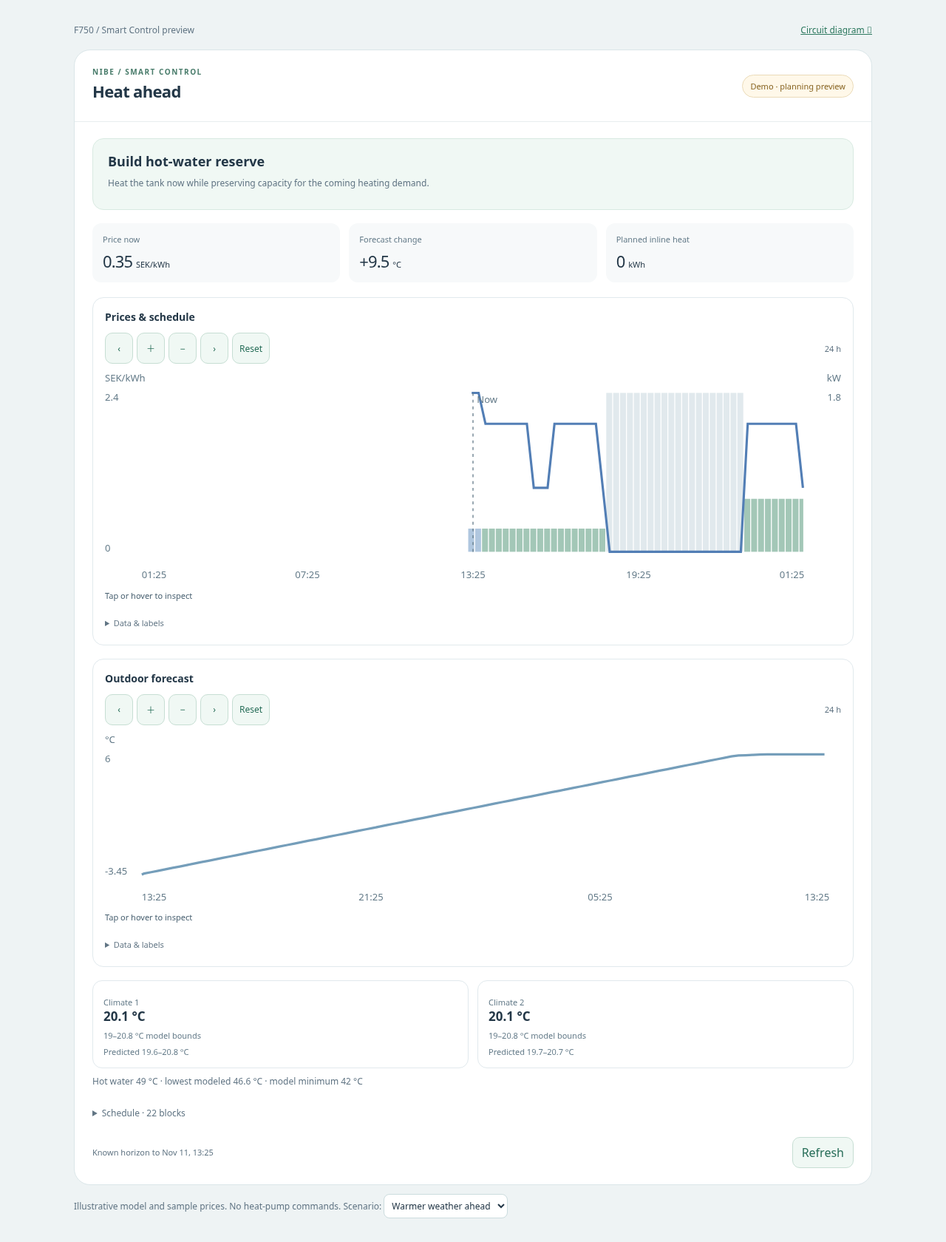
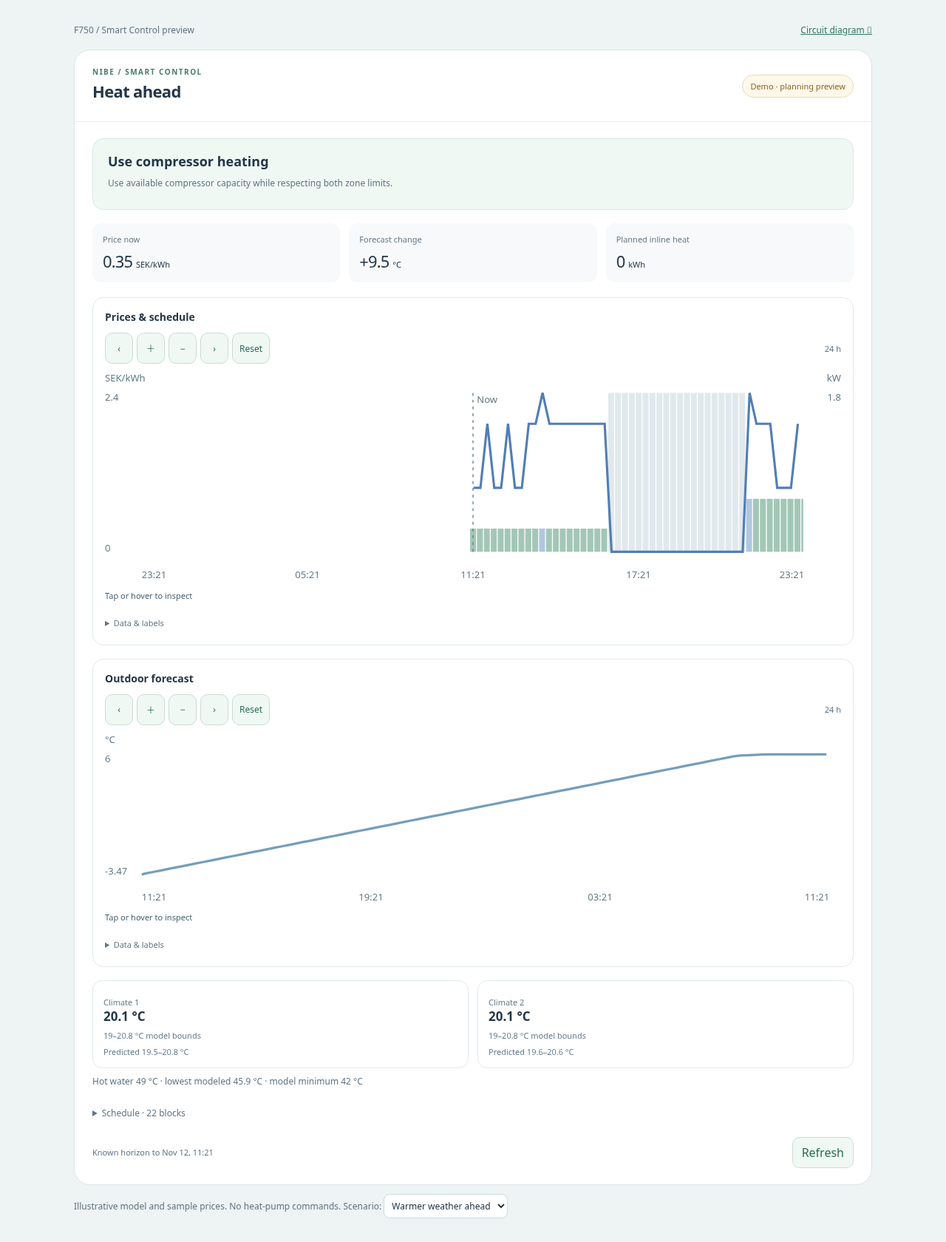
Colour price bars by simulated activity duration rather than whole quarters

Changed region(s): [[0.5, 0.3095, 0.8438, 0.4643], [0.125, 0.1238, 0.3438, 0.1548], [0.375, 0.1238, 0.4062, 0.1548]]

diff --git a/custom_components/nibe_f750/frontend/nibe-f750-card.js b/custom_components/nibe_f750/frontend/nibe-f750-card.js
@@ -373,6 +373,21 @@ window.customCards.push({type:'nibe-f750-card',name:'NIBE F750 Dashboard',descri
 const finite=v=>typeof v==='number'?Number.isFinite(v):typeof v==='string'&&v.trim()!==''&&Number.isFinite(Number(v));
 const stamp=v=>typeof v==='string'&&/(Z|[+-]\d{2}:\d{2})$/.test(v)?Date.parse(v):NaN;
 const escapeHTML=v=>String(v??'').replace(/[&<>"']/g,c=>({'&':'&amp;','<':'&lt;','>':'&gt;','"':'&quot;',"'":'&#39;'}[c]));
+// Forecasts carry actual simulated activity, rather than Normal permission.
+function chartActivity(rows,start,end) {
+  if(!Array.isArray(rows))return null; // Legacy quarter-hour forecast.
+  const time=v=>Number.isFinite(v)?v<1e12?v*1000:v:NaN;
+  const result=[];
+  for(const row of rows){
+    const a=Math.max(start,time(row.start)),b=Math.min(end,time(row.end));
+    if(!Number.isFinite(a)||!Number.isFinite(b)||b<=a||!['dhw','heat','off'].includes(row.action))continue;
+    result.push({start:a,end:b,action:row.action,inline_kw:Number.isFinite(row.inline_kw)&&row.inline_kw>0?row.inline_kw:0});
+  }
+  result.sort((a,b)=>a.start-b.start);
+  const valid=[];
+  for(const r of result){const end=valid.at(-1)?.end??start;if(r.start<end-1)continue;r.start=Math.max(r.start,end);if(r.end>r.start)valid.push(r);}
+  return valid;
+}
 function normalizePrices(rows,{unit,currency='SEK',vat_percent=0,extra_per_kwh=0}={}) {
   if(!Array.isArray(rows)) throw Error('Timestamped Nord Pool prices are missing.');
   const u=String(unit||'').replace(/\s/g,'').toLowerCase(),curr=currency.toLowerCase();
@@ -640,7 +655,12 @@ if(globalThis.customElements&&!customElements.get('nibe-f750-smart-card')) {
         if(c.predicted!==false&&Number.isFinite(row.predicted_kw))values.push(`Predicted ${round(row.predicted_kw,2)} kW`);
         if(c.actual!==false&&row.start<Date.now()&&Number.isFinite(row.actual_kw))values.push(`Observed estimate ${round(row.actual_kw,2)} kW`);
         if(c.inline!==false&&Number.isFinite(row.inline_kw))values.push(`Inline estimate ${round(row.inline_kw,2)} kW`);
-        if(c.schedule!==false&&row.action)values.push(row.end>Date.now()&&!this.planIsActive(Object.values(this._hass?.states||{}).find(s=>s.attributes?.forecast)?.attributes.forecast)?'Schedule inactive':row.action==='off'?'Coast':row.action==='dhw'?'DHW':'Heating');
+        if(c.schedule!==false&&row.action){
+          const activity=chartActivity(row.activity,row.start,row.end);
+          if(row.end>Date.now()&&!this.planIsActive(Object.values(this._hass?.states||{}).find(s=>s.attributes?.forecast)?.attributes.forecast))values.push('Schedule inactive');
+          else if(activity){for(const mode of ['dhw','heat','off']){const seconds=activity.filter(s=>s.action===mode).reduce((n,s)=>n+(s.end-s.start)/1000,0);if(seconds>0)values.push(`${mode==='dhw'?'DHW':mode==='heat'?'Heating':'Coast'} ${seconds<60?round(seconds,1)+' s':round(seconds/60,1)+' min'}`);}}
+          else values.push(row.action==='off'?'Coast':row.action==='dhw'?'DHW':'Heating');
+        }
       } else if(c.temperature!==false)values.push(`${round(row.outdoor,2)} °C`);
       root.querySelector('.chart-inspector').textContent=`${clock(row.start,d.tz)}–${clock(row.end,d.tz)} · ${values.join(' · ')||'No selected data available'}`;
       const line=root.querySelector('[data-crosshair]'),x=d.left+(Math.max(d.start,row.start)-d.start)/(d.end-d.start)*(d.width-d.left-d.right);
@@ -705,13 +725,21 @@ if(globalThis.customElements&&!customElements.get('nibe-f750-smart-card')) {
       const scheduleActive=this.planIsActive(forecast);
       const rows=new Map((data?.history||[]).map(r=>[r.start*1000,{...r,start:r.start*1000,end:r.end*1000}]));
       const planned=(this.config.demo?this._plan?.steps:scheduleActive?forecast?.steps:[])||[];
-      for(const s of planned){if(!['start','end','compressor_kw','inline_kw','price'].every(k=>Number.isFinite(s[k])))continue;const time=s.start<1e12?s.start*1000:s.start,t=Math.floor(time/quarter)*quarter;if(t<start-quarter||t>end)continue;const old=rows.get(t)||{start:t,end:t+quarter};if(t>=now||old.predicted_kw==null){Object.assign(old,{predicted_kw:s.compressor_kw+s.inline_kw,inline_kw:s.inline_kw,price:s.price,action:s.action});}rows.set(t,old);}
+      for(const s of planned){if(!['start','end','compressor_kw','inline_kw','price'].every(k=>Number.isFinite(s[k])))continue;const time=s.start<1e12?s.start*1000:s.start,t=Math.floor(time/quarter)*quarter;if(t<start-quarter||t>end)continue;const old=rows.get(t)||{start:t,end:t+quarter};if(t>=now||old.predicted_kw==null){Object.assign(old,{predicted_kw:s.compressor_kw+s.inline_kw,inline_kw:s.inline_kw,price:s.price,action:s.action,activity:s.activity});}rows.set(t,old);}
       for(const p of this._market?.prices||[]){for(let t=Math.floor(Math.max(p.start,start)/quarter)*quarter;t<Math.min(p.end,end);t+=quarter){if(t<p.start)continue;const row=rows.get(t)||{start:t,end:t+quarter};row.price=p.price;rows.set(t,row);}}
       const points=[];for(let t=Math.floor(start/quarter)*quarter;t<end;t+=quarter)points.push(rows.get(t)||{start:t,end:t+quarter});
       const width=Math.max(320,Math.min(760,(this._width||this.clientWidth)-80)),height=220,left=38,right=38,top=24,bottom=32;
       const pv=this.chartState('price').price===false?[]:points.map(r=>r.price).filter(Number.isFinite),lo=Math.min(0,...pv),hi=Math.max(1,...pv),powerMax=Math.max(1,...points.flatMap(r=>[this.chartState('price').predicted===false?null:r.predicted_kw,this.chartState('price').actual===false?null:r.actual_kw]).filter(Number.isFinite));
       const x=t=>left+(t-start)/(end-start)*(width-left-right),y=v=>height-bottom-(v-lo)/(hi-lo)*(height-top-bottom),yp=v=>height-bottom-v/powerMax*(height-top-bottom),tz=data?.timezone||this._hass?.config?.time_zone||'Europe/Stockholm';
-      const bars=points.filter(r=>r.end>start&&r.start<end&&Number.isFinite(r.price)).map(r=>`<rect data-schedule="${r.end>now&&!scheduleActive?'inactive':'forecast'}" data-start="${r.start}" ${r.inline_kw>0?`data-inline-kw="${r.inline_kw}"`:``} x="${x(Math.max(start,r.start))}" y="${Math.min(y(0),y(r.price))}" width="${Math.max(.5,x(Math.min(end,r.end))-x(Math.max(start,r.start))-1)}" height="${Math.max(1,Math.abs(y(r.price)-y(0)))}" fill="${r.end>now&&!scheduleActive?'#e1e9ed':r.inline_kw>0&&this.chartState('price').inline!==false?'#d59a58':this.chartState('price').schedule===false?'#e1e9ed':r.action==='heat'?'#a3c7b7':r.action==='dhw'?'#b0c7df':'#e1e9ed'}"><title>${clock(r.start,tz)} · ${round(r.price,3)} SEK/kWh${r.inline_kw>0?` · Inline estimate ${round(r.inline_kw,2)} kW`:''}</title></rect>`).join('');
+      const state=this.chartState('price');
+      const bars=points.filter(r=>r.end>start&&r.start<end&&Number.isFinite(r.price)).map(r=>{
+        const inactive=r.end>now&&!scheduleActive,a=Math.max(start,r.start),b=Math.min(end,r.end);
+        const left=x(a),barWidth=Math.max(.5,x(b)-left-1),segments=chartActivity(r.activity,a,b);
+        const colour=(action,inline)=>inactive?'#e1e9ed':inline>0&&state.inline!==false?'#d59a58':state.schedule===false?'#e1e9ed':action==='heat'?'#a3c7b7':action==='dhw'?'#b0c7df':'#e1e9ed';
+        const rect=(from,to,action,inline,precise)=>`<rect data-schedule="${inactive?'inactive':'forecast'}" data-start="${r.start}" ${precise?`data-activity="${action}" data-activity-seconds="${(to-from)/1000}"`:''} ${inline>0?`data-inline-kw="${inline}"`:''} x="${left+(from-a)/(b-a)*barWidth}" y="${Math.min(y(0),y(r.price))}" width="${(to-from)/(b-a)*barWidth}" height="${Math.max(1,Math.abs(y(r.price)-y(0)))}" fill="${colour(action,inline)}"><title>${clock(from,tz)} · ${round(r.price,3)} SEK/kWh${precise?` · ${action==='dhw'?'DHW':action==='heat'?'Heating':'Coast'} ${round((to-from)/60e3,2)} min`:' · Quarter-hour estimate'}${inline>0?` · Inline estimate ${round(inline,2)} kW`:''}</title></rect>`;
+        if(segments===null)return rect(a,b,r.action,r.inline_kw,false);
+        return rect(a,b,'off',0,false)+(inactive?'':segments.filter(s=>s.action!=='off'||s.inline_kw>0).map(s=>rect(s.start,s.end,s.action,s.inline_kw,true)).join(''));
+      }).join('');
       const path=(key,actual)=>{let d='',open=false;for(const r of points){const t=actual?Math.min(now,r.start+quarter/2):r.start+quarter/2,v=r[key];if(!Number.isFinite(v)||(actual&&r.start>=now)||t<start||t>end){open=false;continue;}d+=`${open?'L':'M'}${x(t)} ${yp(v)} `;open=true;}return d;};
       return this.chartShell('price',`<svg viewBox="0 0 ${width} ${height}" role="img" aria-label="Electricity prices and power"><text x="0" y="12">SEK/kWh</text><text x="${width}" y="12" text-anchor="end">kW</text>${bars}<path data-series="predicted" d="${path('predicted_kw',false)}" stroke="${scheduleActive?'#527eb5':'#8799a4'}" ${scheduleActive?'':'stroke-dasharray="4 4"'} stroke-width="2.4" fill="none"/><path data-series="actual" d="${path('actual_kw',true)}" stroke="#b6673b" stroke-width="2.4" fill="none"/><line x1="${x(now)}" x2="${x(now)}" y1="${top}" y2="${height-bottom}" stroke="#647b89" stroke-dasharray="3 4"/><text x="${x(now)+4}" y="${top+10}">Now</text><text x="0" y="${top+8}">${round(hi,2)}</text><text x="0" y="${height-bottom}">${round(lo,2)}</text><text x="${width}" y="${top+8}" text-anchor="end">${round(powerMax,1)}</text>${Array.from({length:5},(_,i)=>start+(end-start)*i/4).map(t=>`<text x="${x(t)}" y="${height-5}" text-anchor="${t===start?'start':t===end?'end':'middle'}">${clock(t,tz)}</text>`).join('')}</svg>${!scheduleActive?'<p data-plan-inactive>Future schedule inactive · archived predictions are shown for comparison.</p>':''}`,{points,start,end,width,left,right,top,bottom,height,tz,labelY:r=>this.chartState('price').price!==false?y(r.price):yp(this.chartState('price').predicted!==false?r.predicted_kw:r.actual_kw)});
     }

diff --git a/dist/nibe-f750-card.js b/dist/nibe-f750-card.js
@@ -373,6 +373,21 @@ window.customCards.push({type:'nibe-f750-card',name:'NIBE F750 Dashboard',descri
 const finite=v=>typeof v==='number'?Number.isFinite(v):typeof v==='string'&&v.trim()!==''&&Number.isFinite(Number(v));
 const stamp=v=>typeof v==='string'&&/(Z|[+-]\d{2}:\d{2})$/.test(v)?Date.parse(v):NaN;
 const escapeHTML=v=>String(v??'').replace(/[&<>"']/g,c=>({'&':'&amp;','<':'&lt;','>':'&gt;','"':'&quot;',"'":'&#39;'}[c]));
+// Forecasts carry actual simulated activity, rather than Normal permission.
+function chartActivity(rows,start,end) {
+  if(!Array.isArray(rows))return null; // Legacy quarter-hour forecast.
+  const time=v=>Number.isFinite(v)?v<1e12?v*1000:v:NaN;
+  const result=[];
+  for(const row of rows){
+    const a=Math.max(start,time(row.start)),b=Math.min(end,time(row.end));
+    if(!Number.isFinite(a)||!Number.isFinite(b)||b<=a||!['dhw','heat','off'].includes(row.action))continue;
+    result.push({start:a,end:b,action:row.action,inline_kw:Number.isFinite(row.inline_kw)&&row.inline_kw>0?row.inline_kw:0});
+  }
+  result.sort((a,b)=>a.start-b.start);
+  const valid=[];
+  for(const r of result){const end=valid.at(-1)?.end??start;if(r.start<end-1)continue;r.start=Math.max(r.start,end);if(r.end>r.start)valid.push(r);}
+  return valid;
+}
 function normalizePrices(rows,{unit,currency='SEK',vat_percent=0,extra_per_kwh=0}={}) {
   if(!Array.isArray(rows)) throw Error('Timestamped Nord Pool prices are missing.');
   const u=String(unit||'').replace(/\s/g,'').toLowerCase(),curr=currency.toLowerCase();
@@ -640,7 +655,12 @@ if(globalThis.customElements&&!customElements.get('nibe-f750-smart-card')) {
         if(c.predicted!==false&&Number.isFinite(row.predicted_kw))values.push(`Predicted ${round(row.predicted_kw,2)} kW`);
         if(c.actual!==false&&row.start<Date.now()&&Number.isFinite(row.actual_kw))values.push(`Observed estimate ${round(row.actual_kw,2)} kW`);
         if(c.inline!==false&&Number.isFinite(row.inline_kw))values.push(`Inline estimate ${round(row.inline_kw,2)} kW`);
-        if(c.schedule!==false&&row.action)values.push(row.end>Date.now()&&!this.planIsActive(Object.values(this._hass?.states||{}).find(s=>s.attributes?.forecast)?.attributes.forecast)?'Schedule inactive':row.action==='off'?'Coast':row.action==='dhw'?'DHW':'Heating');
+        if(c.schedule!==false&&row.action){
+          const activity=chartActivity(row.activity,row.start,row.end);
+          if(row.end>Date.now()&&!this.planIsActive(Object.values(this._hass?.states||{}).find(s=>s.attributes?.forecast)?.attributes.forecast))values.push('Schedule inactive');
+          else if(activity){for(const mode of ['dhw','heat','off']){const seconds=activity.filter(s=>s.action===mode).reduce((n,s)=>n+(s.end-s.start)/1000,0);if(seconds>0)values.push(`${mode==='dhw'?'DHW':mode==='heat'?'Heating':'Coast'} ${seconds<60?round(seconds,1)+' s':round(seconds/60,1)+' min'}`);}}
+          else values.push(row.action==='off'?'Coast':row.action==='dhw'?'DHW':'Heating');
+        }
       } else if(c.temperature!==false)values.push(`${round(row.outdoor,2)} °C`);
       root.querySelector('.chart-inspector').textContent=`${clock(row.start,d.tz)}–${clock(row.end,d.tz)} · ${values.join(' · ')||'No selected data available'}`;
       const line=root.querySelector('[data-crosshair]'),x=d.left+(Math.max(d.start,row.start)-d.start)/(d.end-d.start)*(d.width-d.left-d.right);
@@ -705,13 +725,21 @@ if(globalThis.customElements&&!customElements.get('nibe-f750-smart-card')) {
       const scheduleActive=this.planIsActive(forecast);
       const rows=new Map((data?.history||[]).map(r=>[r.start*1000,{...r,start:r.start*1000,end:r.end*1000}]));
       const planned=(this.config.demo?this._plan?.steps:scheduleActive?forecast?.steps:[])||[];
-      for(const s of planned){if(!['start','end','compressor_kw','inline_kw','price'].every(k=>Number.isFinite(s[k])))continue;const time=s.start<1e12?s.start*1000:s.start,t=Math.floor(time/quarter)*quarter;if(t<start-quarter||t>end)continue;const old=rows.get(t)||{start:t,end:t+quarter};if(t>=now||old.predicted_kw==null){Object.assign(old,{predicted_kw:s.compressor_kw+s.inline_kw,inline_kw:s.inline_kw,price:s.price,action:s.action});}rows.set(t,old);}
+      for(const s of planned){if(!['start','end','compressor_kw','inline_kw','price'].every(k=>Number.isFinite(s[k])))continue;const time=s.start<1e12?s.start*1000:s.start,t=Math.floor(time/quarter)*quarter;if(t<start-quarter||t>end)continue;const old=rows.get(t)||{start:t,end:t+quarter};if(t>=now||old.predicted_kw==null){Object.assign(old,{predicted_kw:s.compressor_kw+s.inline_kw,inline_kw:s.inline_kw,price:s.price,action:s.action,activity:s.activity});}rows.set(t,old);}
       for(const p of this._market?.prices||[]){for(let t=Math.floor(Math.max(p.start,start)/quarter)*quarter;t<Math.min(p.end,end);t+=quarter){if(t<p.start)continue;const row=rows.get(t)||{start:t,end:t+quarter};row.price=p.price;rows.set(t,row);}}
       const points=[];for(let t=Math.floor(start/quarter)*quarter;t<end;t+=quarter)points.push(rows.get(t)||{start:t,end:t+quarter});
       const width=Math.max(320,Math.min(760,(this._width||this.clientWidth)-80)),height=220,left=38,right=38,top=24,bottom=32;
       const pv=this.chartState('price').price===false?[]:points.map(r=>r.price).filter(Number.isFinite),lo=Math.min(0,...pv),hi=Math.max(1,...pv),powerMax=Math.max(1,...points.flatMap(r=>[this.chartState('price').predicted===false?null:r.predicted_kw,this.chartState('price').actual===false?null:r.actual_kw]).filter(Number.isFinite));
       const x=t=>left+(t-start)/(end-start)*(width-left-right),y=v=>height-bottom-(v-lo)/(hi-lo)*(height-top-bottom),yp=v=>height-bottom-v/powerMax*(height-top-bottom),tz=data?.timezone||this._hass?.config?.time_zone||'Europe/Stockholm';
-      const bars=points.filter(r=>r.end>start&&r.start<end&&Number.isFinite(r.price)).map(r=>`<rect data-schedule="${r.end>now&&!scheduleActive?'inactive':'forecast'}" data-start="${r.start}" ${r.inline_kw>0?`data-inline-kw="${r.inline_kw}"`:``} x="${x(Math.max(start,r.start))}" y="${Math.min(y(0),y(r.price))}" width="${Math.max(.5,x(Math.min(end,r.end))-x(Math.max(start,r.start))-1)}" height="${Math.max(1,Math.abs(y(r.price)-y(0)))}" fill="${r.end>now&&!scheduleActive?'#e1e9ed':r.inline_kw>0&&this.chartState('price').inline!==false?'#d59a58':this.chartState('price').schedule===false?'#e1e9ed':r.action==='heat'?'#a3c7b7':r.action==='dhw'?'#b0c7df':'#e1e9ed'}"><title>${clock(r.start,tz)} · ${round(r.price,3)} SEK/kWh${r.inline_kw>0?` · Inline estimate ${round(r.inline_kw,2)} kW`:''}</title></rect>`).join('');
+      const state=this.chartState('price');
+      const bars=points.filter(r=>r.end>start&&r.start<end&&Number.isFinite(r.price)).map(r=>{
+        const inactive=r.end>now&&!scheduleActive,a=Math.max(start,r.start),b=Math.min(end,r.end);
+        const left=x(a),barWidth=Math.max(.5,x(b)-left-1),segments=chartActivity(r.activity,a,b);
+        const colour=(action,inline)=>inactive?'#e1e9ed':inline>0&&state.inline!==false?'#d59a58':state.schedule===false?'#e1e9ed':action==='heat'?'#a3c7b7':action==='dhw'?'#b0c7df':'#e1e9ed';
+        const rect=(from,to,action,inline,precise)=>`<rect data-schedule="${inactive?'inactive':'forecast'}" data-start="${r.start}" ${precise?`data-activity="${action}" data-activity-seconds="${(to-from)/1000}"`:''} ${inline>0?`data-inline-kw="${inline}"`:''} x="${left+(from-a)/(b-a)*barWidth}" y="${Math.min(y(0),y(r.price))}" width="${(to-from)/(b-a)*barWidth}" height="${Math.max(1,Math.abs(y(r.price)-y(0)))}" fill="${colour(action,inline)}"><title>${clock(from,tz)} · ${round(r.price,3)} SEK/kWh${precise?` · ${action==='dhw'?'DHW':action==='heat'?'Heating':'Coast'} ${round((to-from)/60e3,2)} min`:' · Quarter-hour estimate'}${inline>0?` · Inline estimate ${round(inline,2)} kW`:''}</title></rect>`;
+        if(segments===null)return rect(a,b,r.action,r.inline_kw,false);
+        return rect(a,b,'off',0,false)+(inactive?'':segments.filter(s=>s.action!=='off'||s.inline_kw>0).map(s=>rect(s.start,s.end,s.action,s.inline_kw,true)).join(''));
+      }).join('');
       const path=(key,actual)=>{let d='',open=false;for(const r of points){const t=actual?Math.min(now,r.start+quarter/2):r.start+quarter/2,v=r[key];if(!Number.isFinite(v)||(actual&&r.start>=now)||t<start||t>end){open=false;continue;}d+=`${open?'L':'M'}${x(t)} ${yp(v)} `;open=true;}return d;};
       return this.chartShell('price',`<svg viewBox="0 0 ${width} ${height}" role="img" aria-label="Electricity prices and power"><text x="0" y="12">SEK/kWh</text><text x="${width}" y="12" text-anchor="end">kW</text>${bars}<path data-series="predicted" d="${path('predicted_kw',false)}" stroke="${scheduleActive?'#527eb5':'#8799a4'}" ${scheduleActive?'':'stroke-dasharray="4 4"'} stroke-width="2.4" fill="none"/><path data-series="actual" d="${path('actual_kw',true)}" stroke="#b6673b" stroke-width="2.4" fill="none"/><line x1="${x(now)}" x2="${x(now)}" y1="${top}" y2="${height-bottom}" stroke="#647b89" stroke-dasharray="3 4"/><text x="${x(now)+4}" y="${top+10}">Now</text><text x="0" y="${top+8}">${round(hi,2)}</text><text x="0" y="${height-bottom}">${round(lo,2)}</text><text x="${width}" y="${top+8}" text-anchor="end">${round(powerMax,1)}</text>${Array.from({length:5},(_,i)=>start+(end-start)*i/4).map(t=>`<text x="${x(t)}" y="${height-5}" text-anchor="${t===start?'start':t===end?'end':'middle'}">${clock(t,tz)}</text>`).join('')}</svg>${!scheduleActive?'<p data-plan-inactive>Future schedule inactive · archived predictions are shown for comparison.</p>':''}`,{points,start,end,width,left,right,top,bottom,height,tz,labelY:r=>this.chartState('price').price!==false?y(r.price):yp(this.chartState('price').predicted!==false?r.predicted_kw:r.actual_kw)});
     }

diff --git a/dist/nibe-f750-smart-card.js b/dist/nibe-f750-smart-card.js
@@ -2,6 +2,21 @@
 const finite=v=>typeof v==='number'?Number.isFinite(v):typeof v==='string'&&v.trim()!==''&&Number.isFinite(Number(v));
 const stamp=v=>typeof v==='string'&&/(Z|[+-]\d{2}:\d{2})$/.test(v)?Date.parse(v):NaN;
 const escapeHTML=v=>String(v??'').replace(/[&<>"']/g,c=>({'&':'&amp;','<':'&lt;','>':'&gt;','"':'&quot;',"'":'&#39;'}[c]));
+// Forecasts carry actual simulated activity, rather than Normal permission.
+export function chartActivity(rows,start,end) {
+  if(!Array.isArray(rows))return null; // Legacy quarter-hour forecast.
+  const time=v=>Number.isFinite(v)?v<1e12?v*1000:v:NaN;
+  const result=[];
+  for(const row of rows){
+    const a=Math.max(start,time(row.start)),b=Math.min(end,time(row.end));
+    if(!Number.isFinite(a)||!Number.isFinite(b)||b<=a||!['dhw','heat','off'].includes(row.action))continue;
+    result.push({start:a,end:b,action:row.action,inline_kw:Number.isFinite(row.inline_kw)&&row.inline_kw>0?row.inline_kw:0});
+  }
+  result.sort((a,b)=>a.start-b.start);
+  const valid=[];
+  for(const r of result){const end=valid.at(-1)?.end??start;if(r.start<end-1)continue;r.start=Math.max(r.start,end);if(r.end>r.start)valid.push(r);}
+  return valid;
+}
 export function normalizePrices(rows,{unit,currency='SEK',vat_percent=0,extra_per_kwh=0}={}) {
   if(!Array.isArray(rows)) throw Error('Timestamped Nord Pool prices are missing.');
   const u=String(unit||'').replace(/\s/g,'').toLowerCase(),curr=currency.toLowerCase();
@@ -269,7 +284,12 @@ if(globalThis.customElements&&!customElements.get('nibe-f750-smart-card')) {
         if(c.predicted!==false&&Number.isFinite(row.predicted_kw))values.push(`Predicted ${round(row.predicted_kw,2)} kW`);
         if(c.actual!==false&&row.start<Date.now()&&Number.isFinite(row.actual_kw))values.push(`Observed estimate ${round(row.actual_kw,2)} kW`);
         if(c.inline!==false&&Number.isFinite(row.inline_kw))values.push(`Inline estimate ${round(row.inline_kw,2)} kW`);
-        if(c.schedule!==false&&row.action)values.push(row.end>Date.now()&&!this.planIsActive(Object.values(this._hass?.states||{}).find(s=>s.attributes?.forecast)?.attributes.forecast)?'Schedule inactive':row.action==='off'?'Coast':row.action==='dhw'?'DHW':'Heating');
+        if(c.schedule!==false&&row.action){
+          const activity=chartActivity(row.activity,row.start,row.end);
+          if(row.end>Date.now()&&!this.planIsActive(Object.values(this._hass?.states||{}).find(s=>s.attributes?.forecast)?.attributes.forecast))values.push('Schedule inactive');
+          else if(activity){for(const mode of ['dhw','heat','off']){const seconds=activity.filter(s=>s.action===mode).reduce((n,s)=>n+(s.end-s.start)/1000,0);if(seconds>0)values.push(`${mode==='dhw'?'DHW':mode==='heat'?'Heating':'Coast'} ${seconds<60?round(seconds,1)+' s':round(seconds/60,1)+' min'}`);}}
+          else values.push(row.action==='off'?'Coast':row.action==='dhw'?'DHW':'Heating');
+        }
       } else if(c.temperature!==false)values.push(`${round(row.outdoor,2)} °C`);
       root.querySelector('.chart-inspector').textContent=`${clock(row.start,d.tz)}–${clock(row.end,d.tz)} · ${values.join(' · ')||'No selected data available'}`;
       const line=root.querySelector('[data-crosshair]'),x=d.left+(Math.max(d.start,row.start)-d.start)/(d.end-d.start)*(d.width-d.left-d.right);
@@ -334,13 +354,21 @@ if(globalThis.customElements&&!customElements.get('nibe-f750-smart-card')) {
       const scheduleActive=this.planIsActive(forecast);
       const rows=new Map((data?.history||[]).map(r=>[r.start*1000,{...r,start:r.start*1000,end:r.end*1000}]));
       const planned=(this.config.demo?this._plan?.steps:scheduleActive?forecast?.steps:[])||[];
-      for(const s of planned){if(!['start','end','compressor_kw','inline_kw','price'].every(k=>Number.isFinite(s[k])))continue;const time=s.start<1e12?s.start*1000:s.start,t=Math.floor(time/quarter)*quarter;if(t<start-quarter||t>end)continue;const old=rows.get(t)||{start:t,end:t+quarter};if(t>=now||old.predicted_kw==null){Object.assign(old,{predicted_kw:s.compressor_kw+s.inline_kw,inline_kw:s.inline_kw,price:s.price,action:s.action});}rows.set(t,old);}
+      for(const s of planned){if(!['start','end','compressor_kw','inline_kw','price'].every(k=>Number.isFinite(s[k])))continue;const time=s.start<1e12?s.start*1000:s.start,t=Math.floor(time/quarter)*quarter;if(t<start-quarter||t>end)continue;const old=rows.get(t)||{start:t,end:t+quarter};if(t>=now||old.predicted_kw==null){Object.assign(old,{predicted_kw:s.compressor_kw+s.inline_kw,inline_kw:s.inline_kw,price:s.price,action:s.action,activity:s.activity});}rows.set(t,old);}
       for(const p of this._market?.prices||[]){for(let t=Math.floor(Math.max(p.start,start)/quarter)*quarter;t<Math.min(p.end,end);t+=quarter){if(t<p.start)continue;const row=rows.get(t)||{start:t,end:t+quarter};row.price=p.price;rows.set(t,row);}}
       const points=[];for(let t=Math.floor(start/quarter)*quarter;t<end;t+=quarter)points.push(rows.get(t)||{start:t,end:t+quarter});
       const width=Math.max(320,Math.min(760,(this._width||this.clientWidth)-80)),height=220,left=38,right=38,top=24,bottom=32;
       const pv=this.chartState('price').price===false?[]:points.map(r=>r.price).filter(Number.isFinite),lo=Math.min(0,...pv),hi=Math.max(1,...pv),powerMax=Math.max(1,...points.flatMap(r=>[this.chartState('price').predicted===false?null:r.predicted_kw,this.chartState('price').actual===false?null:r.actual_kw]).filter(Number.isFinite));
       const x=t=>left+(t-start)/(end-start)*(width-left-right),y=v=>height-bottom-(v-lo)/(hi-lo)*(height-top-bottom),yp=v=>height-bottom-v/powerMax*(height-top-bottom),tz=data?.timezone||this._hass?.config?.time_zone||'Europe/Stockholm';
-      const bars=points.filter(r=>r.end>start&&r.start<end&&Number.isFinite(r.price)).map(r=>`<rect data-schedule="${r.end>now&&!scheduleActive?'inactive':'forecast'}" data-start="${r.start}" ${r.inline_kw>0?`data-inline-kw="${r.inline_kw}"`:``} x="${x(Math.max(start,r.start))}" y="${Math.min(y(0),y(r.price))}" width="${Math.max(.5,x(Math.min(end,r.end))-x(Math.max(start,r.start))-1)}" height="${Math.max(1,Math.abs(y(r.price)-y(0)))}" fill="${r.end>now&&!scheduleActive?'#e1e9ed':r.inline_kw>0&&this.chartState('price').inline!==false?'#d59a58':this.chartState('price').schedule===false?'#e1e9ed':r.action==='heat'?'#a3c7b7':r.action==='dhw'?'#b0c7df':'#e1e9ed'}"><title>${clock(r.start,tz)} · ${round(r.price,3)} SEK/kWh${r.inline_kw>0?` · Inline estimate ${round(r.inline_kw,2)} kW`:''}</title></rect>`).join('');
+      const state=this.chartState('price');
+      const bars=points.filter(r=>r.end>start&&r.start<end&&Number.isFinite(r.price)).map(r=>{
+        const inactive=r.end>now&&!scheduleActive,a=Math.max(start,r.start),b=Math.min(end,r.end);
+        const left=x(a),barWidth=Math.max(.5,x(b)-left-1),segments=chartActivity(r.activity,a,b);
+        const colour=(action,inline)=>inactive?'#e1e9ed':inline>0&&state.inline!==false?'#d59a58':state.schedule===false?'#e1e9ed':action==='heat'?'#a3c7b7':action==='dhw'?'#b0c7df':'#e1e9ed';
+        const rect=(from,to,action,inline,precise)=>`<rect data-schedule="${inactive?'inactive':'forecast'}" data-start="${r.start}" ${precise?`data-activity="${action}" data-activity-seconds="${(to-from)/1000}"`:''} ${inline>0?`data-inline-kw="${inline}"`:''} x="${left+(from-a)/(b-a)*barWidth}" y="${Math.min(y(0),y(r.price))}" width="${(to-from)/(b-a)*barWidth}" height="${Math.max(1,Math.abs(y(r.price)-y(0)))}" fill="${colour(action,inline)}"><title>${clock(from,tz)} · ${round(r.price,3)} SEK/kWh${precise?` · ${action==='dhw'?'DHW':action==='heat'?'Heating':'Coast'} ${round((to-from)/60e3,2)} min`:' · Quarter-hour estimate'}${inline>0?` · Inline estimate ${round(inline,2)} kW`:''}</title></rect>`;
+        if(segments===null)return rect(a,b,r.action,r.inline_kw,false);
+        return rect(a,b,'off',0,false)+(inactive?'':segments.filter(s=>s.action!=='off'||s.inline_kw>0).map(s=>rect(s.start,s.end,s.action,s.inline_kw,true)).join(''));
+      }).join('');
       const path=(key,actual)=>{let d='',open=false;for(const r of points){const t=actual?Math.min(now,r.start+quarter/2):r.start+quarter/2,v=r[key];if(!Number.isFinite(v)||(actual&&r.start>=now)||t<start||t>end){open=false;continue;}d+=`${open?'L':'M'}${x(t)} ${yp(v)} `;open=true;}return d;};
       return this.chartShell('price',`<svg viewBox="0 0 ${width} ${height}" role="img" aria-label="Electricity prices and power"><text x="0" y="12">SEK/kWh</text><text x="${width}" y="12" text-anchor="end">kW</text>${bars}<path data-series="predicted" d="${path('predicted_kw',false)}" stroke="${scheduleActive?'#527eb5':'#8799a4'}" ${scheduleActive?'':'stroke-dasharray="4 4"'} stroke-width="2.4" fill="none"/><path data-series="actual" d="${path('actual_kw',true)}" stroke="#b6673b" stroke-width="2.4" fill="none"/><line x1="${x(now)}" x2="${x(now)}" y1="${top}" y2="${height-bottom}" stroke="#647b89" stroke-dasharray="3 4"/><text x="${x(now)+4}" y="${top+10}">Now</text><text x="0" y="${top+8}">${round(hi,2)}</text><text x="0" y="${height-bottom}">${round(lo,2)}</text><text x="${width}" y="${top+8}" text-anchor="end">${round(powerMax,1)}</text>${Array.from({length:5},(_,i)=>start+(end-start)*i/4).map(t=>`<text x="${x(t)}" y="${height-5}" text-anchor="${t===start?'start':t===end?'end':'middle'}">${clock(t,tz)}</text>`).join('')}</svg>${!scheduleActive?'<p data-plan-inactive>Future schedule inactive · archived predictions are shown for comparison.</p>':''}`,{points,start,end,width,left,right,top,bottom,height,tz,labelY:r=>this.chartState('price').price!==false?y(r.price):yp(this.chartState('price').predicted!==false?r.predicted_kw:r.actual_kw)});
     }

diff --git a/custom_components/nibe_f750/joint.py b/custom_components/nibe_f750/joint.py
@@ -294,7 +294,7 @@ def _search(slots, states, now, model=None, response=None, min_hz=20., max_hz=84
                     for chunk in chunks:
                         dt=(chunk['end']-chunk['start'])/3600
                         n=max(1,math.ceil(dt*12));h=dt/n
-                        energy=extra_energy=0.;water_minutes=0.;min_room=r
+                        energy=extra_energy=0.;water_minutes=0.;min_room=r;activity=[]
                         required=max(15.,min(60.,sample['required']+gain*(offset-sample['offset'])
                                             -1.2*(chunk['outdoor']-sample['outside'])))
                         for k in range(n):
@@ -318,6 +318,14 @@ def _search(slots, states, now, model=None, response=None, min_hz=20., max_hz=84
                             power=max(0,hz*(.0161+.000208*(bt12-45)))
                             energy+=(power+extra+water_aux)*h;extra_energy+=(extra+water_aux)*h
                             water_minutes+=h*60 if dhw else 0
+                            activity_start=chunk['start']+k*h*3600
+                            activity_end=chunk['start']+(k+1)*h*3600
+                            activity_mode='dhw' if dhw else 'heat' if power+extra>.02 else 'off'
+                            inline=extra+water_aux
+                            if activity and activity[-1][2]==activity_mode and bool(activity[-1][3])==bool(inline):
+                                a,b,mode_old,kw=activity[-1]
+                                activity[-1]=(a,activity_end,mode_old,(kw*(b-a)+inline*(activity_end-activity_start))/(activity_end-a))
+                            else:activity.append((activity_start,activity_end,activity_mode,inline))
                             rate=rates[0]+(rates[1]-rates[0])*min(1.,q/.5)
                             target_delta=2.*rate
                             room_delta=target_delta+(room_delta-target_delta)*math.exp(-h/2.)
@@ -344,7 +352,7 @@ def _search(slots, states, now, model=None, response=None, min_hz=20., max_hz=84
                                 short=max(0,m['tank_max_c']-.5-w)
                                 miss+=short;penalty+=300*short*short
                         cost+=energy*chunk['price'];auxiliary_energy+=extra_energy
-                        pieces.append({**chunk,'offset':offset,'dhw_mode':mode,
+                        pieces.append({**chunk,'activity':activity,'offset':offset,'dhw_mode':mode,
                             'dhw_reason':reserve['dhw_reason'] if reserve['dhw']=='Normal' or mode=='Economy' else 'Scheduled DHW period',
                             'action':'dhw' if water_minutes else 'heat' if energy>.02*dt else 'off',
                             'room':r,'room1':room1,'room2':room2,'water':w,
@@ -396,6 +404,7 @@ def _search(slots, states, now, model=None, response=None, min_hz=20., max_hz=84
         output.append({**s,**{k:last[k] for k in ('offset','dhw_mode','dhw_reason','room','room1','room2','water','hz','degree_minutes','required_supply','supply')},
             'compressor_kw':sum(q['compressor_kw']*(q['end']-q['start']) for q in matches)/duration,
             'inline_kw':sum(q['inline_kw']*(q['end']-q['start']) for q in matches)/duration,
+            'activity':[{'start':a,'end':b,'action':mode,'inline_kw':kw} for q in matches for a,b,mode,kw in q['activity']],
             'action':'dhw' if any(q['action']=='dhw' for q in matches) else 'heat' if any(q['action']=='heat' for q in matches) else 'off'})
     recovery=any(min(s['room1'],s['room2'])<m['room_min_c'] or max(s['room1'],s['room2'])>m['room_max_c'] or s['water']<m['tank_min_c'] for s in output)
     current=next((c for c in commands if c['start']<=max(now,earliest)<c['end']),commands[0])

diff --git a/tests/activity_test.py b/tests/activity_test.py
@@ -1,0 +1,41 @@
+"""Activity timing describes simulated production, and remains as issued."""
+import unittest, copy
+from joint_scenarios_test import joint,readings,timeline,NOW,MODEL
+from integration_test import load
+
+class ActivityTests(unittest.TestCase):
+    def test_timing_covers_each_interval_without_gaps_or_overlaps(self):
+        result=joint.plan(timeline(count=8),readings(tank=45),NOW,MODEL,command_not_before=NOW+75)
+        for s in result['steps']:
+            cursor=s['start']
+            for a in s['activity']:
+                self.assertAlmostEqual(a['start'],cursor)
+                self.assertGreater(a['end'],a['start'])
+                self.assertIn(a['action'],('heat','dhw','off'))
+                cursor=a['end']
+            self.assertAlmostEqual(cursor,s['end'])
+        self.assertEqual(result['commands'][0]['end'],NOW+120)
+
+    def test_normal_permission_without_native_charging_has_no_dhw_activity(self):
+        states=readings(tank=52)
+        states['select.vp_comfort_mode'].state='Normal'
+        result=joint.plan(timeline(count=4),states,NOW,{**MODEL,'dhw_profile':[0.]*24},command_not_before=NOW+1800)
+        for s in result['steps']:
+            if s['end']<=NOW+1800:
+                self.assertNotIn('dhw',[a['action'] for a in s['activity']])
+
+    def test_activity_history_is_immutable_after_issue_and_survives_restore(self):
+        module=load('accounting');store=module.Accounting()
+        segments=[{'start':NOW,'end':NOW+45,'action':'dhw','inline_kw':0.},
+                  {'start':NOW+45,'end':NOW+900,'action':'off','inline_kw':0.}]
+        step={'start':NOW,'end':NOW+900,'compressor_kw':.05,'inline_kw':0.,'price':2.,'action':'dhw','activity':segments}
+        store.forecast({'generated_at':NOW-60,'steps':[step]},NOW-60)
+        saved=copy.deepcopy(segments);segments.clear()
+        store.forecast({'generated_at':NOW+60,'steps':[{**step,'activity':[]}]},NOW+60)
+        self.assertEqual(store.view(NOW+60)['history'][0]['activity'],saved)
+        restored=module.Accounting();restored.restore(copy.deepcopy(store.dump()))
+        self.assertEqual(restored.view(NOW+60)['history'][0]['activity'],saved)
+        merged=module.Accounting();merged.merge_history(restored,NOW+60)
+        self.assertEqual(merged.view(NOW+60)['history'][0]['activity'],saved)
+
+if __name__=='__main__':unittest.main()

diff --git a/custom_components/nibe_f750/accounting.py b/custom_components/nibe_f750/accounting.py
@@ -43,7 +43,7 @@ class Accounting:
             # Once an interval has begun, preserve its as-issued prediction.
             if start>now or 'predicted_kw' not in row:
                 row.update(predicted_kw=s['compressor_kw']+s['inline_kw'],price=s['price'],
-                           inline_kw=s['inline_kw'],action=s['action'],issued_at=result.get('generated_at',now))
+                           inline_kw=s['inline_kw'],action=s['action'],activity=[dict(a) for a in s['activity']] if isinstance(s.get('activity'),list) else None,issued_at=result.get('generated_at',now))
         self.revision+=1
 
     def observe(self, states, now, learned, forecast):
@@ -172,7 +172,7 @@ class Accounting:
             current=self.bins.get(t,{})
             merged={**historical,**current}
             if t<=cutoff and 'predicted_kw' in historical:
-                for key in ('predicted_kw','inline_kw','issued_at','action'):
+                for key in ('predicted_kw','inline_kw','issued_at','action','activity'):
                     merged[key]=historical.get(key)
             for key in ('energy','seconds'):
                 if key in historical or key in current:
@@ -195,7 +195,7 @@ class Accounting:
                          'baseline':data['baseline'] if data and data.get('baseline_seconds',0)>=data['seconds']-1e-6 else None,'covered_hours':data['seconds']/3600 if data else 0.})
         history=[{'start':t,'end':t+900,'price':v.get('price'),'predicted_kw':v.get('predicted_kw'),'inline_kw':v.get('inline_kw'),
                   'actual_kw':v['energy']/(v['seconds']/3600) if v.get('seconds') else None,
-                  'action':v.get('action'),'covered_seconds':v.get('seconds',0)}
+                  'action':v.get('action'),'activity':v.get('activity'),'covered_seconds':v.get('seconds',0)}
                  for t,v in sorted(self.bins.items()) if now-44100<=t<=now+43200]
         return {'updated_at':now,'history':history,'week':week,'timezone':str(self.zone),'currency':'SEK',
                 'basis':'Observed power/cost are estimates from compressor frequency/BT12 plus reported inline power. Baseline is a fixed-20°C/Normal-DHW thermal simulation, not a measured saving. Baseline is shown only for fully matched recorded cost intervals; missing history stays blank.'}

diff --git a/custom_components/nibe_f750/__init__.py b/custom_components/nibe_f750/__init__.py
@@ -8,7 +8,7 @@ from .controller import Controller, DOMAIN
 from .forecast import Predictor
 
 PLATFORMS = [Platform.SENSOR, Platform.SWITCH, Platform.BUTTON]
-URL = '/nibe-f750/nibe-f750-card.js?v=0.24.0'
+URL = '/nibe-f750/nibe-f750-card.js?v=0.24.1'
 
 
 async def async_setup_entry(hass, entry):

diff --git a/README.md b/README.md
@@ -23,6 +23,12 @@ Existing installations only need the Marketplace update, HA restart and browser 
 
 The integration registers its bundled cards automatically. For YAML-mode dashboards, remove old NIBE resource URLs to avoid loading an outdated duplicate.
 
+## Proportional schedule colouring — v0.24.1
+
+Price bars now show heating/DHW/inline activity only for the corresponding simulated part of each interval. A 16-minute DHW charge spanning three quarters no longer colours three full bars: a 45-second fragment covers 5% of its bar, the full quarter is filled, and a final 15 seconds covers 1.7%. Tiny fragments are not enlarged to a minimum colour width. Tap/hover inspection reports the modelled activity durations; zooming preserves their positions.
+
+New forecast activity timing is retained with as-issued power history. Older records without precise timing retain coarse quarter-hour colouring, labelled “Quarter-hour estimate” in their tooltips. Times describe predicted production at the model's internal resolution, not measured future operation or merely permission to charge. Control cadence, 16-minute command blocks, write limits and quarter-hour power/cost values are unchanged. Update in Marketplace, restart HA and refresh the dashboard.
+
 ## Full known-price horizon — v0.24.0
 
 Price-aware room preferences now consider every available forecast interval, up to 24 hours. The eight-hour cutoff is removed. The search also constructs explicit alternatives that defer space heating until a later cheaper window, plus alternatives that supply only a comfort bridge before that window. Both an early meaningful price drop and the cheapest later two-hour window are considered, including opportunities beyond twelve hours.
